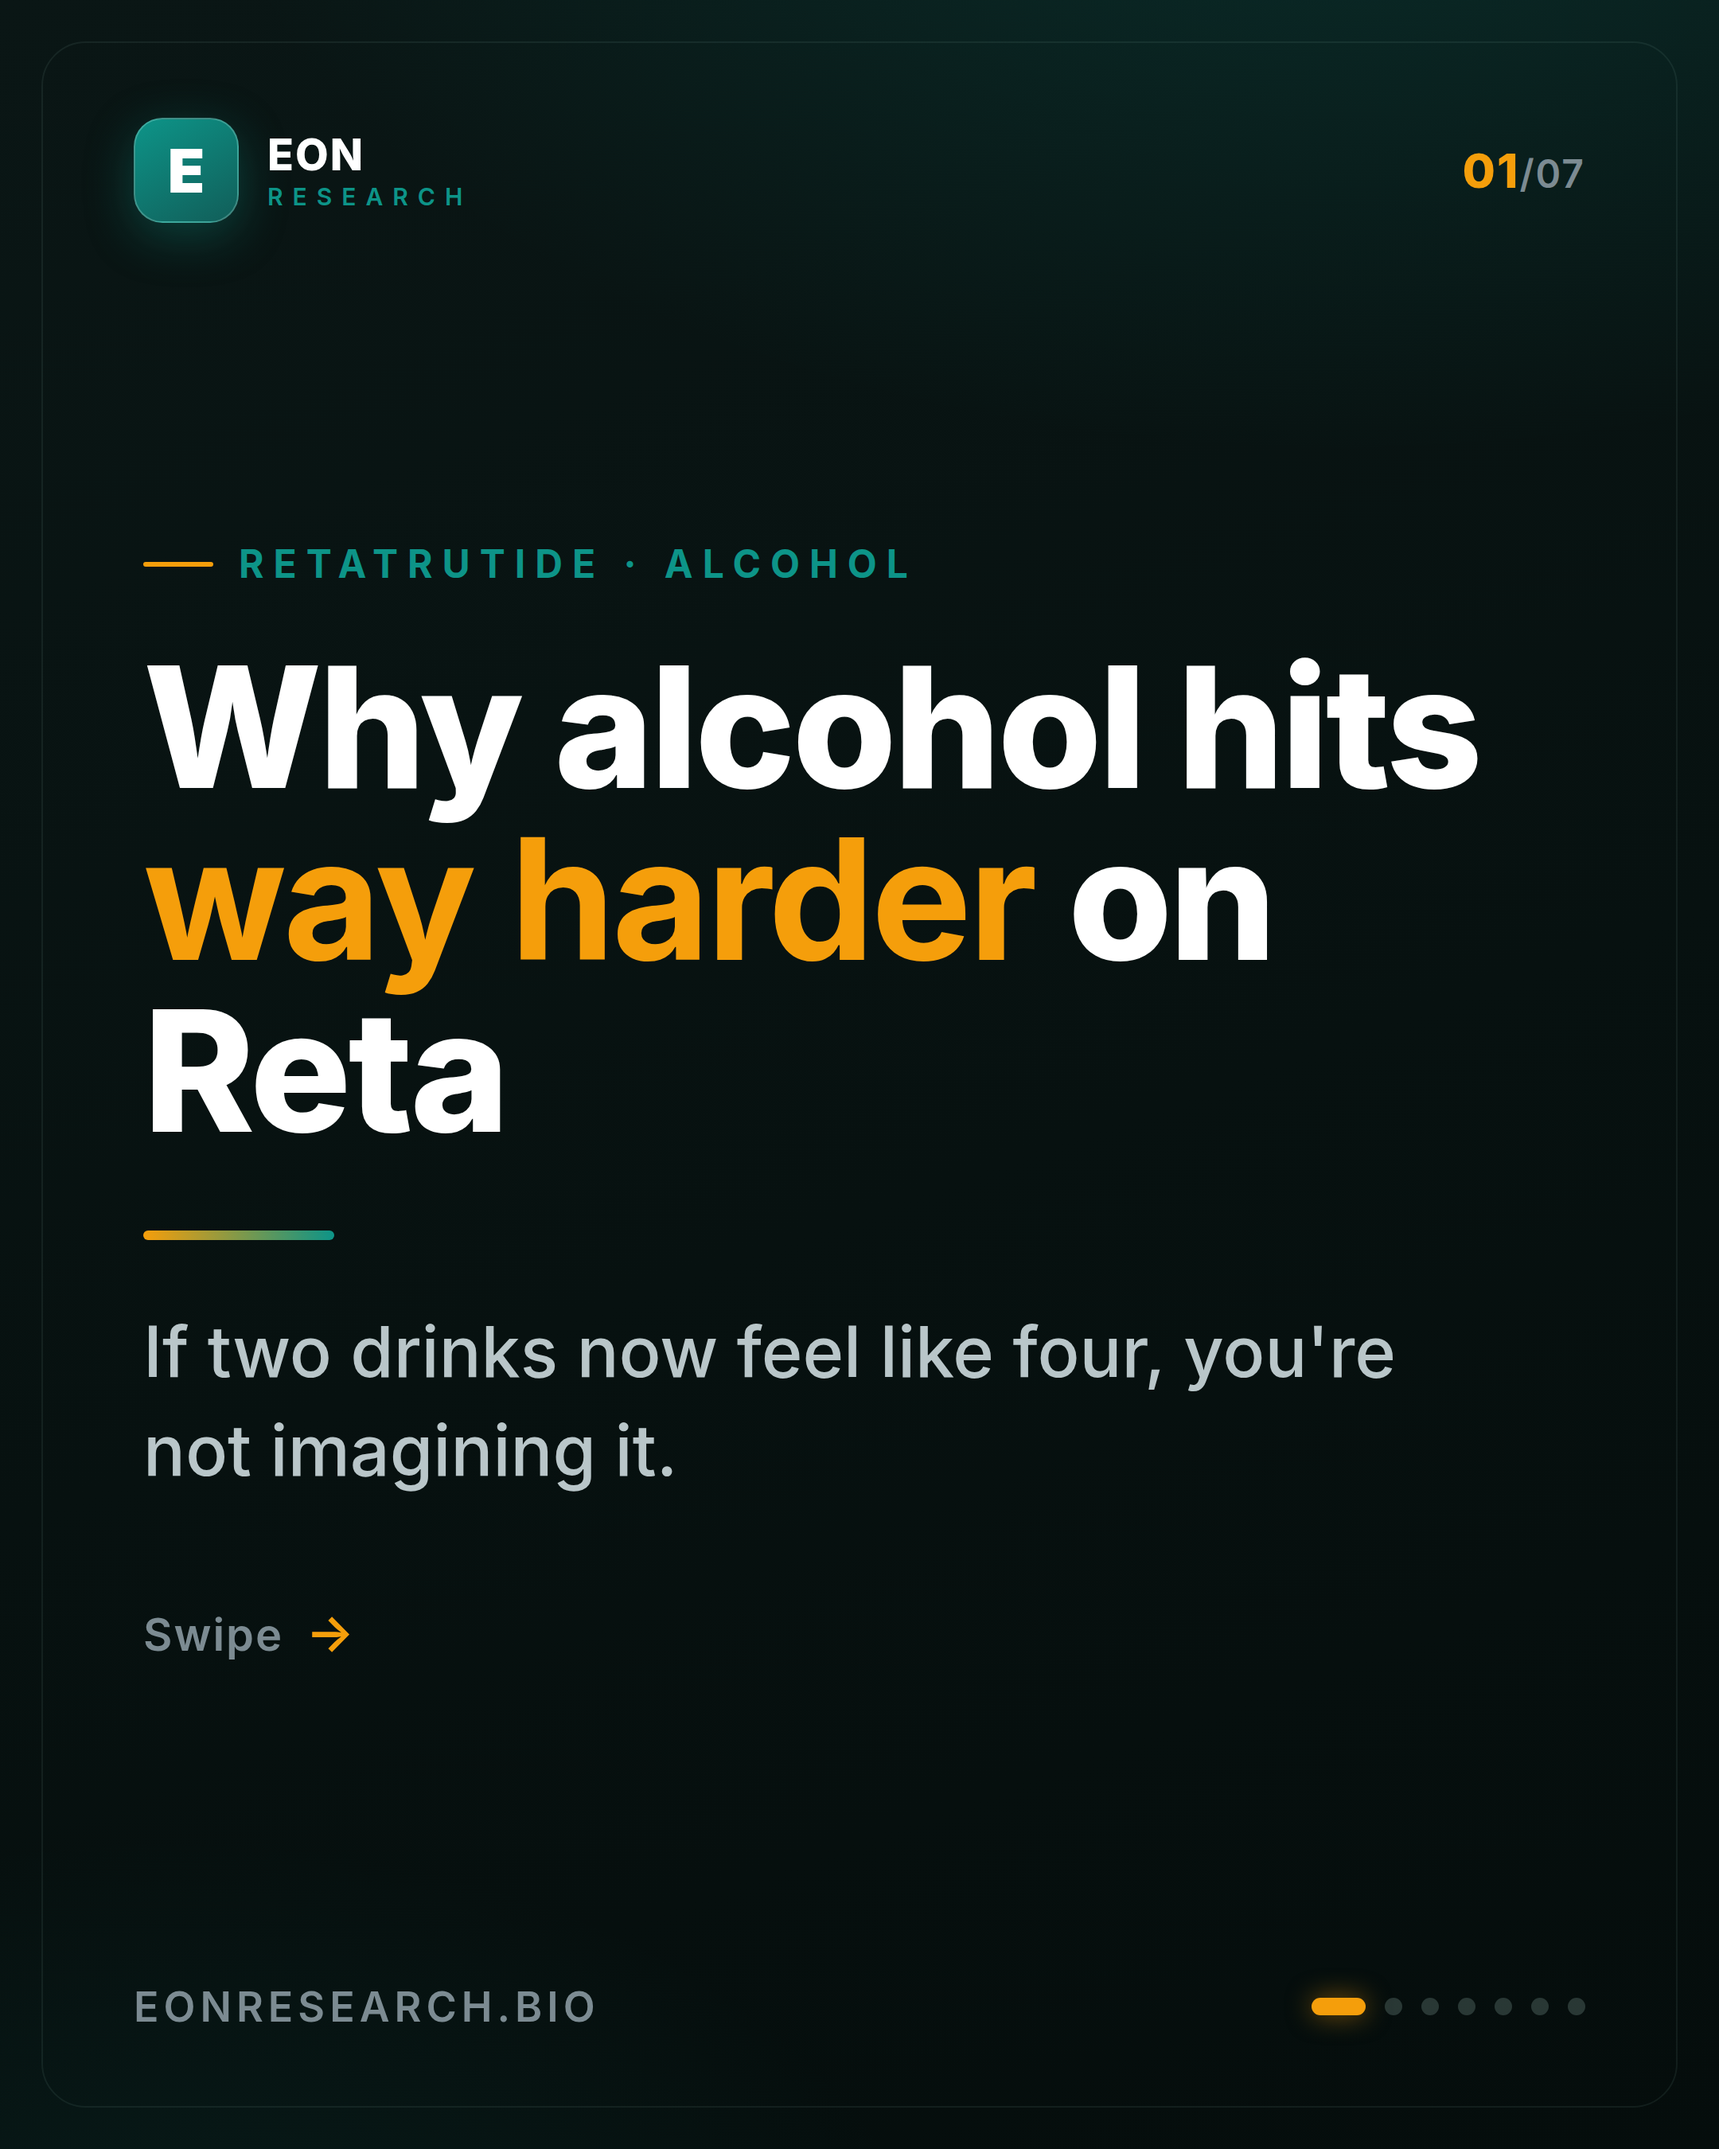
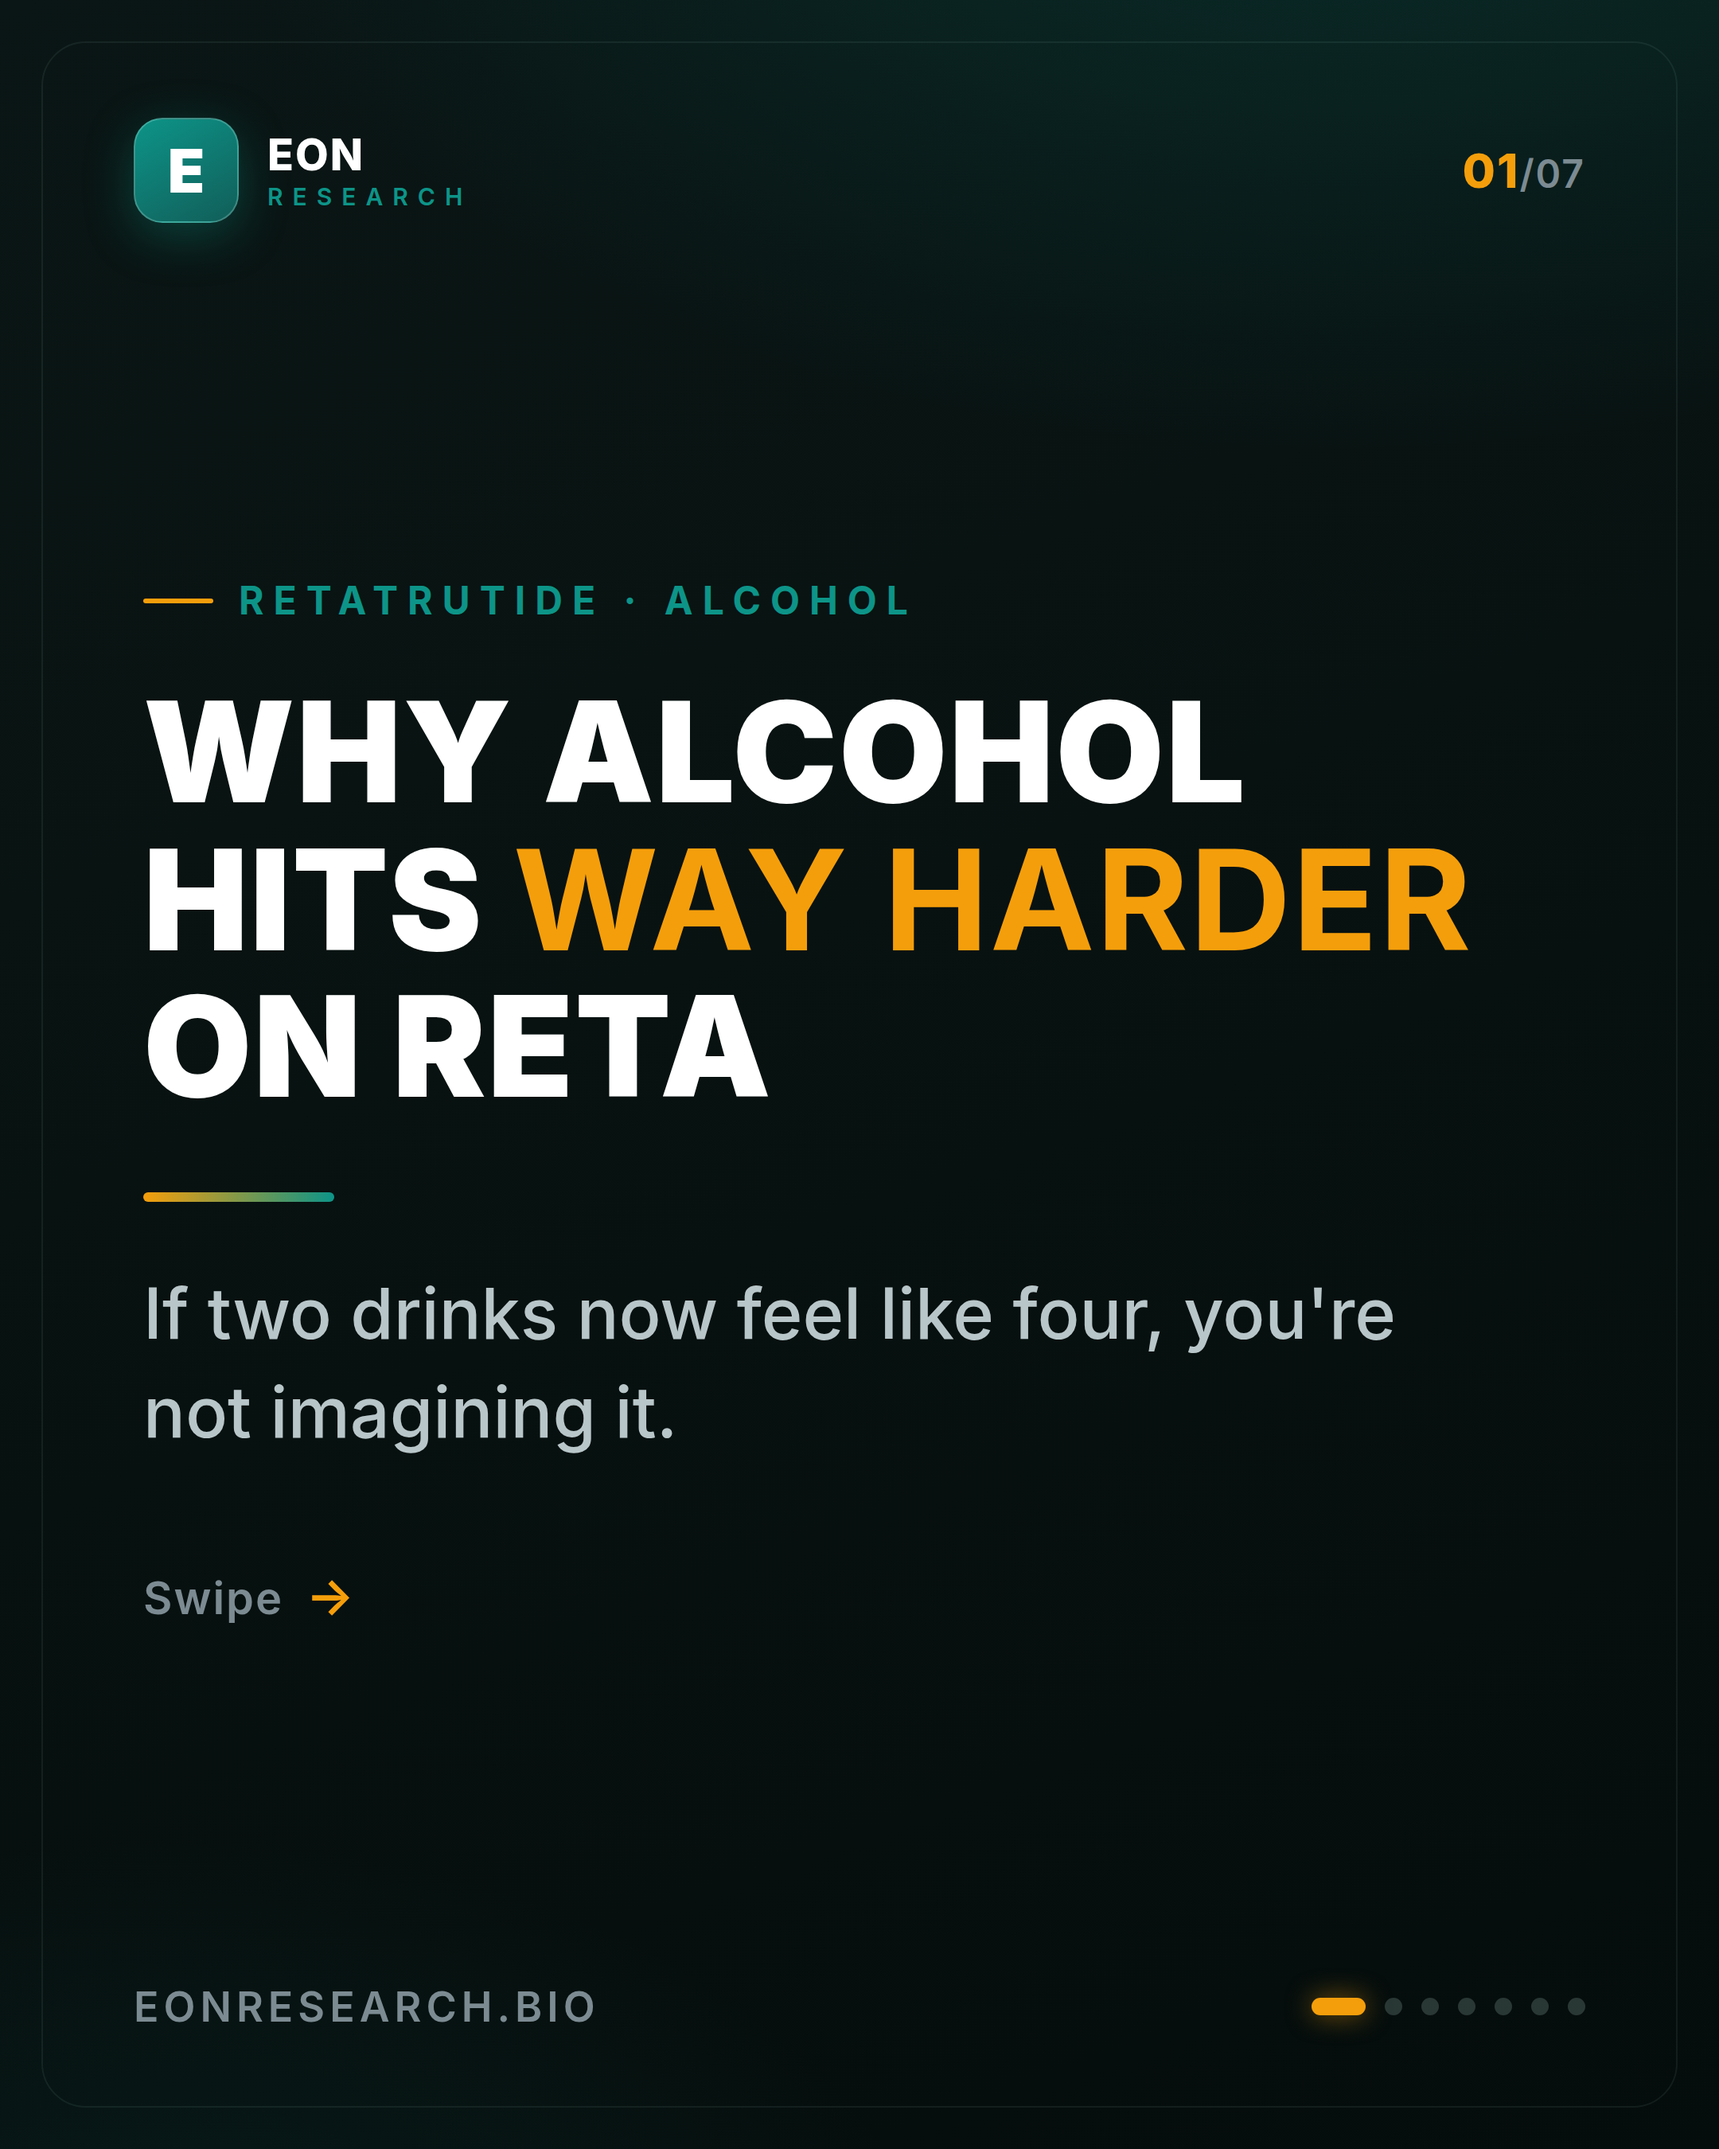
Apply brand/colors.md typography: bold spaced uppercase headers
Reworks slide headers (cover, body, CTA) to bold, letter-spaced uppercase
to match the Typography section of brand/colors.md, and re-renders the
2x Instagram slides.

Claude-Session: https://claude.ai/code/session_012cQR93u2YK9ZC7Bjqg2S3L

diff --git a/content/carousels/reta-alcohol/template.js b/content/carousels/reta-alcohol/template.js
@@ -130,13 +130,13 @@ function renderSlide(s, idx) {
   .hl{color:var(--amber);font-weight:700;}
   .tl{color:var(--mint);font-weight:600;}
 
-  .cover-title{font-weight:800;font-size:106px;line-height:1.02;letter-spacing:-2px;color:#fff;}
+  .cover-title{font-weight:900;font-size:88px;line-height:1.05;letter-spacing:1px;text-transform:uppercase;color:#fff;}
   .rule{width:120px;height:6px;background:linear-gradient(90deg,var(--amber),var(--teal));border-radius:3px;margin:46px 0 40px;}
   .cover-sub{font-weight:500;font-size:44px;line-height:1.4;color:#B9C6C9;max-width:820px;}
   .swipe{margin-top:64px;font-weight:600;font-size:28px;color:var(--dim);letter-spacing:1px;}
   .swipe span{color:var(--amber);margin-left:6px;font-size:32px;}
 
-  .body-title{font-weight:800;font-size:60px;line-height:1.12;letter-spacing:-1px;color:#fff;margin-bottom:36px;}
+  .body-title{font-weight:800;font-size:52px;line-height:1.16;letter-spacing:1px;text-transform:uppercase;color:#fff;margin-bottom:36px;}
   .body-text{font-weight:500;font-size:52px;line-height:1.42;color:#DCE6E8;}
   .cite{margin-top:48px;font-weight:600;font-size:26px;letter-spacing:0.5px;color:var(--dim);padding-left:22px;border-left:3px solid var(--teal);}
 
@@ -148,7 +148,7 @@ function renderSlide(s, idx) {
   .li-txt{font-weight:500;font-size:50px;line-height:1.25;color:#DCE6E8;}
 
   /* cta */
-  .cta-title{font-weight:900;font-size:96px;line-height:1.0;letter-spacing:-2px;color:#fff;margin-bottom:40px;}
+  .cta-title{font-weight:900;font-size:84px;line-height:1.04;letter-spacing:1px;text-transform:uppercase;color:#fff;margin-bottom:40px;}
   .cta-btn{
     margin-top:64px;align-self:flex-start;display:inline-flex;align-items:center;gap:18px;
     background:linear-gradient(135deg,var(--amber),#EA8C0A);
